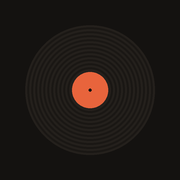
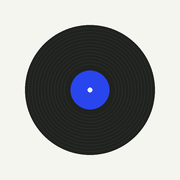
heytim.studio theme and credit
- Paper, ink and one blue accent; Space Grotesk headings, DM Sans body,
  14px rounded controls, matching heytim.studio (with a dark variant)
- "A heytim.studio experiment" on the start screen, settings, README
  and the share image
- Share image redrawn in the new palette and type
- New record-disc icons; manifest colours updated; v0.3.0

diff --git a/app.css b/app.css
@@ -1,15 +1,37 @@
+/* Theme follows heytim.studio: paper, ink, one blue accent, Space Grotesk + DM Sans */
 :root {
-  --bg: #141210;
-  --panel: #1d1a17;
-  --line: #2e2a25;
-  --ink: #f1e9dc;
-  --muted: #9a9083;
-  --accent: #e8643c;
-  --accent-ink: #1a0f0a;
-  --good: #8fbf7f;
-  --serif: "Iowan Old Style", "Palatino Linotype", Palatino, Georgia, serif;
-  --sans: -apple-system, BlinkMacSystemFont, "Segoe UI", Roboto, sans-serif;
-  --mono: ui-monospace, "SF Mono", Menlo, Consolas, monospace;
+  --bg: #f5f5ef;
+  --panel: #e9ebe3;
+  --field: #fafaf6;
+  --line: #cdcec7;
+  --control: #858b7c;
+  --ink: #20221f;
+  --muted: #62665d;
+  --accent: #2945ed;
+  --accent-soft: rgba(41, 69, 237, 0.1);
+  --on-ink: #f5f5ef;
+  --groove-a: #2b2e29;
+  --groove-b: #20221f;
+  --display: "Space Grotesk", Arial, sans-serif;
+  --sans: "DM Sans", Arial, sans-serif;
+  color-scheme: light;
+}
+@media (prefers-color-scheme: dark) {
+  :root {
+    --bg: #1b1d19;
+    --panel: #252822;
+    --field: #20231c;
+    --line: #393c35;
+    --control: #6e7367;
+    --ink: #f5f5ef;
+    --muted: #a3a79c;
+    --accent: #6f84ff;
+    --accent-soft: rgba(111, 132, 255, 0.16);
+    --on-ink: #1b1d19;
+    --groove-a: #2e312b;
+    --groove-b: #252822;
+    color-scheme: dark;
+  }
 }
 
 * { box-sizing: border-box; }
@@ -17,17 +39,18 @@ html, body { margin: 0; background: var(--bg); color: var(--ink); }
 body {
   font-family: var(--sans);
   font-size: 16px;
-  line-height: 1.45;
+  line-height: 1.5;
   min-height: 100dvh;
   padding: env(safe-area-inset-top) 0 env(safe-area-inset-bottom);
   -webkit-font-smoothing: antialiased;
 }
 button, input { font: inherit; color: inherit; }
 [hidden] { display: none !important; }
+::selection { background: var(--ink); color: var(--on-ink); }
 
 .banner {
-  background: var(--accent); color: var(--accent-ink);
-  font-size: 12px; text-align: center; padding: 6px 12px;
+  background: var(--accent); color: #f5f5ef;
+  font-size: 12px; font-weight: 500; text-align: center; padding: 6px 12px;
 }
 
 .screen { max-width: 480px; margin: 0 auto; padding: 24px 20px 32px; min-height: 90dvh; display: flex; flex-direction: column; }
@@ -37,53 +60,57 @@ button, input { font: inherit; color: inherit; }
 .row { display: flex; justify-content: space-between; align-items: center; gap: 10px; }
 .row.wrap { flex-wrap: wrap; justify-content: flex-start; }
 
-.display { font-family: var(--serif); font-weight: 500; font-size: 38px; line-height: 1.05; margin: 0; letter-spacing: -0.01em; }
-.title { font-family: var(--serif); font-size: 26px; line-height: 1.15; margin: 0; }
-.lede { font-family: var(--serif); font-size: 19px; color: var(--muted); margin: 0 0 18px; }
-.eyebrow { font-family: var(--mono); font-size: 11px; text-transform: uppercase; letter-spacing: 0.12em; color: var(--muted); margin: 0; }
+.display { font-family: var(--display); font-weight: 600; font-size: 40px; line-height: 1; margin: 0; letter-spacing: -0.045em; }
+.display .dot, .dot { color: var(--accent); }
+.title { font-family: var(--display); font-weight: 600; font-size: 26px; line-height: 1.1; margin: 0; letter-spacing: -0.03em; }
+.lede { font-size: 19px; color: var(--muted); margin: 0 0 18px; }
+.eyebrow { font-family: var(--sans); font-weight: 600; font-size: 12px; text-transform: uppercase; letter-spacing: 0.12em; color: var(--muted); margin: 0; }
 .small { font-size: 13px; }
 .muted { color: var(--muted); }
-h3 { margin: 0 0 6px; font-size: 15px; }
+h3 { margin: 0 0 6px; font-family: var(--display); font-weight: 600; font-size: 17px; letter-spacing: -0.02em; }
 p { margin: 0; }
+a { color: inherit; text-underline-offset: 3px; }
+
+.brand-credit { font-size: 13px; color: var(--muted); }
+.brand-credit a { color: var(--ink); font-weight: 500; }
 
 .disc {
   width: 140px; height: 140px; border-radius: 50%; margin-bottom: 16px;
   background:
     radial-gradient(circle, var(--accent) 0 13%, var(--bg) 13% 15%, transparent 15%),
-    repeating-radial-gradient(circle, #24201c 0 2px, #1a1714 2px 4px);
-  box-shadow: 0 0 0 1px var(--line);
+    repeating-radial-gradient(circle, var(--groove-a) 0 2px, var(--groove-b) 2px 4px);
 }
 
 .btn {
-  border: 1px solid var(--line); background: var(--panel); border-radius: 999px;
-  padding: 14px 22px; cursor: pointer; font-weight: 600; text-align: center;
+  border: 1px solid var(--control); background: transparent; border-radius: 14px;
+  padding: 14px 22px; cursor: pointer; font-weight: 500; letter-spacing: -0.015em; text-align: center;
   -webkit-tap-highlight-color: transparent; user-select: none;
 }
 .btn:active { transform: scale(0.98); }
 .btn:disabled { opacity: 0.35; cursor: default; }
-.btn.primary { background: var(--accent); color: var(--accent-ink); border-color: var(--accent); }
-.btn.ghost { background: transparent; padding: 10px 16px; font-weight: 500; font-size: 14px; }
-.btn.danger { color: #ff8f7a; }
-.btn.round { width: 64px; height: 64px; padding: 0; font-size: 20px; }
-.link { background: none; border: 0; color: var(--muted); padding: 6px 0; cursor: pointer; font-size: 14px; }
+.btn.primary { background: var(--ink); color: var(--on-ink); border-color: var(--ink); }
+.btn.ghost { padding: 10px 16px; font-size: 14px; border-radius: 12px; }
+.btn.danger { color: #c2410c; }
+.btn.round { width: 64px; height: 64px; padding: 0; font-size: 20px; border-radius: 50%; }
+.link { background: none; border: 0; color: var(--muted); padding: 6px 0; cursor: pointer; font-size: 14px; font-weight: 500; }
 .link:hover { color: var(--ink); }
 
 .chips { display: grid; grid-template-columns: repeat(3, 1fr); gap: 10px; }
 .chip {
-  border: 1px solid var(--line); background: var(--panel); border-radius: 14px;
-  padding: 16px 6px; cursor: pointer; text-align: center; font-weight: 600;
+  border: 1px solid var(--control); background: transparent; border-radius: 14px;
+  padding: 16px 6px; cursor: pointer; text-align: center; font-weight: 500;
 }
 .chip .e { display: block; font-size: 22px; margin-bottom: 4px; }
-.chip.on { border-color: var(--accent); background: #2a1a12; }
+.chip.on { background: var(--ink); color: var(--on-ink); border-color: var(--ink); }
 
 .field { display: flex; flex-direction: column; gap: 6px; }
 .field.inline { flex-direction: row; align-items: center; gap: 8px; margin-top: 8px; }
 input[type=text], input[type=search], input[type=number] {
-  background: var(--panel); border: 1px solid var(--line); border-radius: 12px;
+  background: var(--field); border: 1px solid var(--control); border-radius: 14px;
   padding: 12px 14px; outline: none; width: 100%;
 }
 input[type=number] { width: 72px; }
-input:focus { border-color: var(--accent); }
+input:focus { border-color: var(--accent); box-shadow: 0 0 0 3px var(--accent-soft); }
 
 .footer-nav { display: flex; justify-content: space-between; align-items: center; padding-top: 18px; border-top: 1px solid var(--line); margin-top: 24px; }
 .footer-nav .link { margin-left: 14px; }
@@ -91,52 +118,51 @@ input:focus { border-color: var(--accent); }
 /* playing */
 .playing { gap: 16px; }
 .art {
-  aspect-ratio: 1; width: 100%; border-radius: 6px; background: var(--panel) center/cover no-repeat;
-  box-shadow: 0 20px 50px rgba(0,0,0,0.5); display: grid; place-items: center;
-  font-family: var(--serif); font-size: 64px; color: var(--muted);
+  aspect-ratio: 1; width: 100%; border-radius: 14px; background: var(--panel) center/cover no-repeat;
+  box-shadow: 0 24px 50px rgba(32, 34, 31, 0.18); display: grid; place-items: center;
+  font-family: var(--display); font-weight: 600; font-size: 64px; color: var(--muted);
 }
-.track { font-weight: 600; margin-bottom: 8px; min-height: 1.4em; }
+.track { font-weight: 600; margin-bottom: 8px; min-height: 1.5em; }
 .bar { height: 4px; background: var(--line); border-radius: 4px; overflow: hidden; }
 .bar > div { height: 100%; width: 0; background: var(--accent); transition: width 0.4s linear; }
-.now .row { margin-top: 6px; font-family: var(--mono); }
+.now .row { margin-top: 6px; font-variant-numeric: tabular-nums; }
 .controls { display: flex; justify-content: center; gap: 18px; }
-.hold { position: relative; overflow: hidden; background: transparent; color: var(--muted); font-weight: 500; }
-.hold .fill { position: absolute; inset: 0; width: 0; background: #3a2018; }
+.hold { position: relative; overflow: hidden; color: var(--muted); }
+.hold .fill { position: absolute; inset: 0; width: 0; background: var(--accent-soft); }
 .hold .label { position: relative; }
 .hold.holding .fill { width: 100%; transition: width 1.5s linear; }
 
 .choice-row { display: grid; grid-template-columns: repeat(3, 1fr); gap: 10px; }
-.choice { border-radius: 14px; padding: 20px 6px; }
+.choice { padding: 20px 6px; }
 
 /* stats */
-.tabs { display: flex; gap: 4px; background: var(--panel); border-radius: 999px; padding: 3px; }
-.tabs button { border: 0; background: none; padding: 6px 12px; border-radius: 999px; font-size: 13px; cursor: pointer; color: var(--muted); }
-.tabs button.on { background: var(--ink); color: var(--bg); }
+.tabs { display: flex; gap: 2px; border: 1px solid var(--line); border-radius: 12px; padding: 3px; }
+.tabs button { border: 0; background: none; padding: 6px 11px; border-radius: 9px; font-size: 13px; font-weight: 500; cursor: pointer; color: var(--muted); }
+.tabs button.on { background: var(--ink); color: var(--on-ink); }
 .headline { display: grid; grid-template-columns: 1fr 1fr; gap: 10px; }
-.stat { background: var(--panel); border: 1px solid var(--line); border-radius: 14px; padding: 14px; }
-.stat .n { font-family: var(--serif); font-size: 30px; line-height: 1; }
+.stat { background: var(--panel); border-radius: 14px; padding: 14px; }
+.stat .n { font-family: var(--display); font-weight: 600; font-size: 32px; line-height: 1; letter-spacing: -0.04em; }
 .stat .l { font-size: 12px; color: var(--muted); margin-top: 6px; }
 .stat.wide { grid-column: span 2; }
-.card { background: var(--panel); border: 1px solid var(--line); border-radius: 14px; padding: 16px; display: flex; flex-direction: column; gap: 8px; }
-.compare { width: 100%; border-collapse: collapse; font-size: 14px; }
-.compare th { text-align: right; font-family: var(--mono); font-size: 10px; text-transform: uppercase; letter-spacing: 0.1em; color: var(--muted); padding-bottom: 8px; }
+.card { background: var(--panel); border-radius: 14px; padding: 16px; display: flex; flex-direction: column; gap: 8px; }
+.compare { width: 100%; border-collapse: collapse; font-size: 14px; font-variant-numeric: tabular-nums; }
+.compare th { text-align: right; font-size: 10px; font-weight: 600; text-transform: uppercase; letter-spacing: 0.1em; color: var(--muted); padding-bottom: 8px; line-height: 1.2; }
 .compare td { padding: 9px 0; border-top: 1px solid var(--line); }
-.compare td:not(:first-child) { text-align: right; font-family: var(--mono); }
-.compare td.win { color: var(--good); }
+.compare td:not(:first-child) { text-align: right; font-weight: 500; }
+.compare .cnt { font-size: 10px; font-weight: 400; color: var(--muted); }
 .mood-row { display: flex; justify-content: space-between; font-size: 14px; }
 .mood-row .bar { flex: 0 0 40%; align-self: center; }
 .sessions, .albums { list-style: none; margin: 0; padding: 0; display: flex; flex-direction: column; gap: 8px; }
-.sessions li { font-size: 13px; padding: 10px 12px; background: var(--panel); border-radius: 10px; display: flex; justify-content: space-between; gap: 10px; }
+.sessions li { font-size: 13px; padding: 10px 12px; background: var(--panel); border-radius: 12px; display: flex; justify-content: space-between; gap: 10px; }
 .sessions li b { font-weight: 600; }
-#share-preview { width: 100%; border-radius: 12px; border: 1px solid var(--line); }
+#share-preview { width: 100%; border-radius: 14px; border: 1px solid var(--line); }
 
-.albums li label { display: flex; align-items: center; gap: 12px; padding: 8px; border-radius: 10px; cursor: pointer; }
+.albums li label { display: flex; align-items: center; gap: 12px; padding: 8px; border-radius: 12px; cursor: pointer; }
 .albums li label:hover { background: var(--panel); }
-.albums img, .albums .ph { width: 44px; height: 44px; border-radius: 4px; background: var(--panel); flex: none; object-fit: cover; }
+.albums img, .albums .ph { width: 44px; height: 44px; border-radius: 6px; background: var(--panel); flex: none; object-fit: cover; }
 .albums .t { font-size: 14px; font-weight: 600; }
 .albums .a { font-size: 12px; color: var(--muted); }
 .albums input { margin-left: auto; width: 20px; height: 20px; accent-color: var(--accent); }
-
 .albums label.off { opacity: 0.4; cursor: default; }
 
 .radio { display: flex; gap: 10px; align-items: center; font-size: 14px; padding: 4px 0; }
@@ -144,20 +170,18 @@ input:focus { border-color: var(--accent); }
 
 /* setup and rules */
 .sticky-foot { position: sticky; bottom: 0; background: var(--bg); padding: 12px 0 calc(8px + env(safe-area-inset-bottom)); display: flex; flex-direction: column; gap: 8px; border-top: 1px solid var(--line); }
-.rules { margin: 0; padding-left: 20px; display: flex; flex-direction: column; gap: 10px; color: var(--ink); }
-.rules li::marker { color: var(--accent); font-family: var(--mono); }
+.rules { margin: 0; padding-left: 22px; display: flex; flex-direction: column; gap: 10px; }
+.rules li::marker { color: var(--accent); font-weight: 600; }
 
 /* reveal */
 .reveal-album { display: flex; flex-direction: column; gap: 14px; }
 .reveal-album .art { width: 70%; align-self: center; }
 .shelf { display: grid; grid-template-columns: repeat(3, 1fr); gap: 12px; }
 .shelf-item { background: none; border: 0; padding: 0; text-align: left; cursor: pointer; display: flex; flex-direction: column; gap: 4px; min-width: 0; }
-.shelf-item .cover { aspect-ratio: 1; border-radius: 4px; background: var(--panel) center/cover no-repeat; border: 2px solid transparent; display: grid; place-items: center; font-family: var(--serif); font-size: 28px; color: var(--muted); }
-.shelf-item.on .cover { border-color: var(--accent); }
+.shelf-item .cover { aspect-ratio: 1; border-radius: 10px; background: var(--panel) center/cover no-repeat; border: 2px solid transparent; display: grid; place-items: center; font-family: var(--display); font-weight: 600; font-size: 28px; color: var(--muted); }
+.shelf-item.on .cover { border-color: var(--accent); box-shadow: 0 0 0 3px var(--accent-soft); }
 .shelf-item .t { font-size: 12px; font-weight: 600; overflow: hidden; text-overflow: ellipsis; white-space: nowrap; }
 .shelf-item .a { font-size: 11px; color: var(--muted); overflow: hidden; text-overflow: ellipsis; white-space: nowrap; }
 
 /* results */
 .trio { display: grid; grid-template-columns: repeat(3, 1fr); gap: 8px; margin-top: 10px; }
-.compare .cnt { font-size: 10px; color: var(--muted); }
-.compare th { line-height: 1.2; }

diff --git a/app.js b/app.js
@@ -4,7 +4,7 @@
 (() => {
 "use strict";
 
-const VERSION = "0.2.0";
+const VERSION = "0.3.0";
 const CFG = window.ONE_ALBUM_CONFIG || {};
 const $ = (s) => document.querySelector(s);
 const $$ = (s) => Array.from(document.querySelectorAll(s));
@@ -64,7 +64,7 @@ function nextAssignment() {
 const MOODS = {
   happy:     { label: "Happy",     e: "☀" },
   sad:       { label: "Sad",       e: "☂" },
-  amped:     { label: "Amped",     e: "⚡" },
+  amped:     { label: "Amped",     e: "⚡" }, // text style, so it matches the other symbols
   calm:      { label: "Calm",      e: "☾" },
   focused:   { label: "Focused",   e: "◎" },
   nostalgic: { label: "Nostalgic", e: "↺" },
@@ -775,20 +775,25 @@ $("#btn-share").addEventListener("click", async () => {
   const st = computeStats(), { by, all } = st;
   const c = document.createElement("canvas"); c.width = 1080; c.height = 1350;
   const x = c.getContext("2d");
-  const serif = '"Iowan Old Style", Palatino, Georgia, serif', mono = "Menlo, Consolas, monospace", sans = "-apple-system, Segoe UI, sans-serif";
-  x.fillStyle = "#141210"; x.fillRect(0, 0, 1080, 1350);
-  x.fillStyle = "#e8643c"; x.beginPath(); x.arc(980, 120, 36, 0, Math.PI * 2); x.fill();
+  // heytim.studio palette and type; wait for the web fonts so the canvas doesn't fall back
+  const display = '"Space Grotesk", Arial, sans-serif', sans = '"DM Sans", Arial, sans-serif';
+  const PAPER = "#f5f5ef", INK = "#20221f", MUTED = "#62665d", LINE = "#cdcec7", BLUE = "#2945ed";
+  try { await Promise.all(["600 84px", "500 34px", "600 24px"].map((f, i) => document.fonts.load(`${f} ${i ? sans : display}`))); } catch {}
+  x.fillStyle = PAPER; x.fillRect(0, 0, 1080, 1350);
+  x.fillStyle = BLUE; x.beginPath(); x.arc(980, 120, 30, 0, Math.PI * 2); x.fill();
   const span = period === "run" ? `${st.spanDays} DAY${st.spanDays === 1 ? "" : "S"}` : period === "0" ? "ALL TIME" : `${period} DAYS`;
-  x.fillStyle = "#9a9083"; x.font = `26px ${mono}`;
+  x.fillStyle = MUTED; x.font = `600 24px ${sans}`;
   x.fillText(`${span} · ${all.n} SESSIONS · ONE PERSON`, 80, 130);
-  x.fillStyle = "#f1e9dc"; x.font = `500 84px ${serif}`;
-  x.fillText("Was that a", 80, 260);
-  x.fillText("good listen?", 80, 350);
+  x.fillStyle = INK; x.font = `600 92px ${display}`;
+  x.fillText("Was that a", 80, 270);
+  x.fillText("good listen", 80, 370);
+  const qx = 80 + x.measureText("good listen").width;
+  x.fillStyle = BLUE; x.fillText("?", qx, 370);
   MODES.forEach((m, i) => {
     const cx = 80 + i * 320;
-    x.fillStyle = "#9a9083"; x.font = `24px ${mono}`; x.fillText(MODE_LABEL[m].toUpperCase(), cx, 470);
-    x.fillStyle = "#f1e9dc"; x.font = `500 110px ${serif}`; x.fillText(pct(by[m].good), cx, 600);
-    x.fillStyle = "#9a9083"; x.font = `24px ${mono}`; x.fillText(`${by[m].goodN} rated`, cx, 645);
+    x.fillStyle = MUTED; x.font = `600 22px ${sans}`; x.fillText(MODE_LABEL[m].toUpperCase(), cx, 480);
+    x.fillStyle = INK; x.font = `600 110px ${display}`; x.fillText(pct(by[m].good), cx, 600);
+    x.fillStyle = MUTED; x.font = `500 24px ${sans}`; x.fillText(`${by[m].goodN} rated`, cx, 645);
   });
   const rows = [
     ["Skip runs / session", (s) => num(s.skipRuns)],
@@ -798,17 +803,21 @@ $("#btn-share").addEventListener("click", async () => {
   if (st.recallReady) rows.push(["Next-day recall", (s) => pct(s.recall)]);
   const colX = [640, 820, 1000];
   let y = 800;
-  x.font = `22px ${mono}`; x.fillStyle = "#9a9083"; x.textAlign = "right";
+  x.font = `600 20px ${sans}`; x.fillStyle = MUTED; x.textAlign = "right";
   MODES.forEach((m, i) => x.fillText(MODE_SHORT[m], colX[i], y - 50));
   for (const [l, f] of rows) {
-    x.strokeStyle = "#2e2a25"; x.lineWidth = 2; x.beginPath(); x.moveTo(80, y - 36); x.lineTo(1000, y - 36); x.stroke();
-    x.textAlign = "left"; x.fillStyle = "#f1e9dc"; x.font = `34px ${sans}`; x.fillText(l, 80, y + 10);
-    x.textAlign = "right"; x.font = `36px ${mono}`;
+    x.strokeStyle = LINE; x.lineWidth = 2; x.beginPath(); x.moveTo(80, y - 36); x.lineTo(1000, y - 36); x.stroke();
+    x.textAlign = "left"; x.fillStyle = INK; x.font = `400 34px ${sans}`; x.fillText(l, 80, y + 10);
+    x.textAlign = "right"; x.font = `600 36px ${display}`;
     MODES.forEach((m, i) => x.fillText(f(by[m]), colX[i], y + 10));
     y += 90;
   }
-  x.textAlign = "left"; x.fillStyle = "#9a9083"; x.font = `26px ${mono}`;
-  x.fillText(`Sessions: shuffle ${by.shuffle.n} · album ${by.album.n} · crate ${by.crate.n}`, 80, 1250);
+  x.textAlign = "left"; x.fillStyle = MUTED; x.font = `500 24px ${sans}`;
+  x.fillText(`Sessions: shuffle ${by.shuffle.n} · album ${by.album.n} · crate ${by.crate.n}`, 80, 1210);
+  x.fillStyle = INK; x.font = `600 26px ${display}`;
+  x.fillText("One Album", 80, 1270);
+  x.fillStyle = MUTED; x.font = `500 24px ${sans}`;
+  x.textAlign = "right"; x.fillText("a heytim.studio experiment", 1000, 1270); x.textAlign = "left";
   const blob = await new Promise((r) => c.toBlob(r, "image/png"));
   const img = $("#share-preview"); img.src = URL.createObjectURL(blob); img.hidden = false;
   await shareOrDownload(new File([blob], "one-album-results.png", { type: "image/png" }));

diff --git a/index.html b/index.html
@@ -3,16 +3,20 @@
 <head>
   <meta charset="utf-8">
   <meta name="viewport" content="width=device-width, initial-scale=1, viewport-fit=cover">
-  <meta name="theme-color" content="#141210">
+  <meta name="theme-color" content="#f5f5ef" media="(prefers-color-scheme: light)">
+  <meta name="theme-color" content="#1b1d19" media="(prefers-color-scheme: dark)">
   <meta name="apple-mobile-web-app-capable" content="yes">
   <meta name="mobile-web-app-capable" content="yes">
-  <meta name="apple-mobile-web-app-status-bar-style" content="black-translucent">
+  <meta name="apple-mobile-web-app-status-bar-style" content="default">
   <meta name="apple-mobile-web-app-title" content="One Album">
-  <meta name="description" content="One album at a time, played through. A listening experiment.">
+  <meta name="description" content="One album at a time, played through. A heytim.studio listening experiment.">
   <title>One Album</title>
   <link rel="manifest" href="manifest.webmanifest">
   <link rel="icon" href="icons/icon-192.png">
   <link rel="apple-touch-icon" href="icons/apple-touch-icon.png">
+  <link rel="preconnect" href="https://fonts.googleapis.com">
+  <link rel="preconnect" href="https://fonts.gstatic.com" crossorigin>
+  <link rel="stylesheet" href="https://fonts.googleapis.com/css2?family=DM+Sans:wght@400;500;600;700&family=Space+Grotesk:wght@500;600;700&display=swap">
   <link rel="stylesheet" href="app.css">
 </head>
 <body>
@@ -22,7 +26,8 @@
   <section id="screen-connect" class="screen">
     <div class="center">
       <div class="disc" aria-hidden="true"></div>
-      <h1 class="display">One Album</h1>
+      <p class="eyebrow">A <a href="https://heytim.studio" target="_blank" rel="noopener">heytim.studio</a> experiment</p>
+      <h1 class="display">One Album<span class="dot">.</span></h1>
       <p class="lede">One record off your shelf. Play it through.</p>
       <button id="btn-connect" class="btn primary">Connect Apple Music</button>
       <button id="btn-demo" class="btn ghost">Try the demo</button>
@@ -53,7 +58,7 @@
   <section id="screen-rules" class="screen" hidden>
     <div class="stack">
       <p class="eyebrow">New run</p>
-      <h1 class="display">How this works</h1>
+      <h1 class="display">How this works<span class="dot">.</span></h1>
       <ol class="rules">
         <li>Each session gets one of three modes, at random: <b>Shuffle</b>, a <b>random album</b> from your library, or an album from <b>your crate</b> that you choose.</li>
         <li>Skip works in every mode. Albums play in order.</li>
@@ -256,7 +261,7 @@
           <button id="btn-signout" class="btn ghost">Sign out / exit demo</button>
         </div>
       </div>
-      <p class="small muted center-text">One Album · open source · v<span id="app-version"></span></p>
+      <p class="brand-credit center-text">One Album · a <a href="https://heytim.studio" target="_blank" rel="noopener">heytim.studio</a> experiment · open source · v<span id="app-version"></span></p>
     </div>
   </section>
 

diff --git a/sw.js b/sw.js
@@ -1,6 +1,6 @@
 // Caches the app shell so it opens instantly and offline.
 // Bump CACHE whenever you change a file, or phones keep the old version.
-const CACHE = "one-album-v0.2.0";
+const CACHE = "one-album-v0.3.0";
 const SHELL = ["./", "index.html", "app.css", "app.js", "config.js", "manifest.webmanifest",
   "icons/icon-192.png", "icons/icon-512.png", "icons/apple-touch-icon.png"];
 

diff --git a/README.md b/README.md
@@ -1,5 +1,7 @@
 # One Album
 
+*A [heytim.studio](https://heytim.studio) experiment.*
+
 Pull one record off your own shelf and play it through. Skip works. When it ends, nothing else starts until you choose.
 
 It's also a small personal experiment. Each session is randomly given one of three modes, and the app tracks how each goes:
